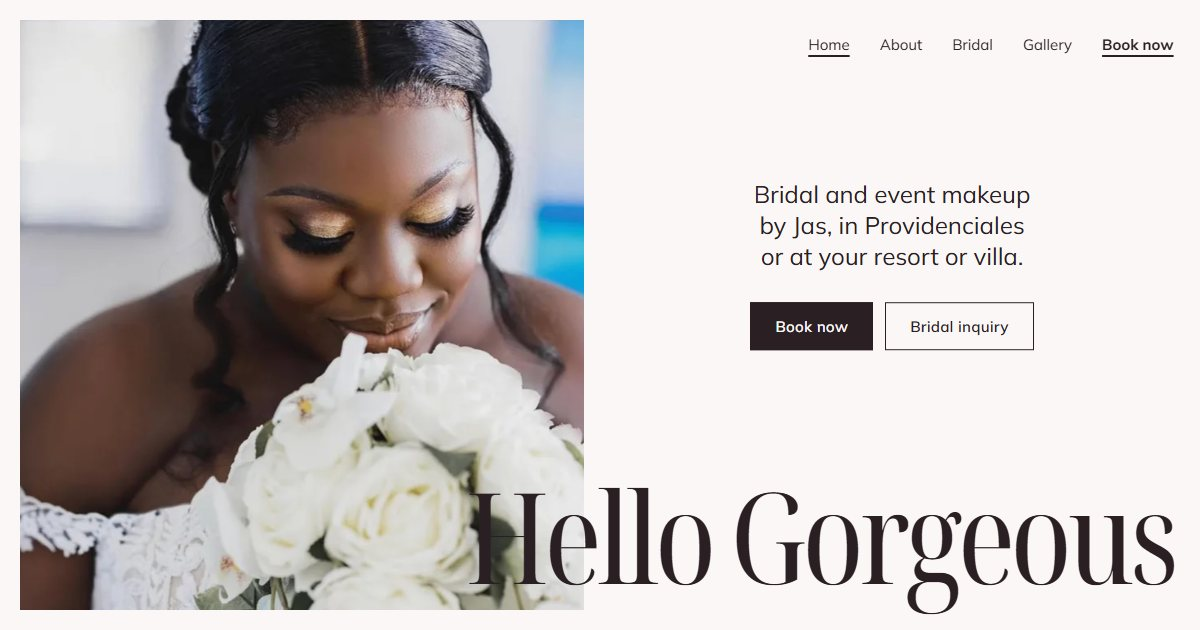
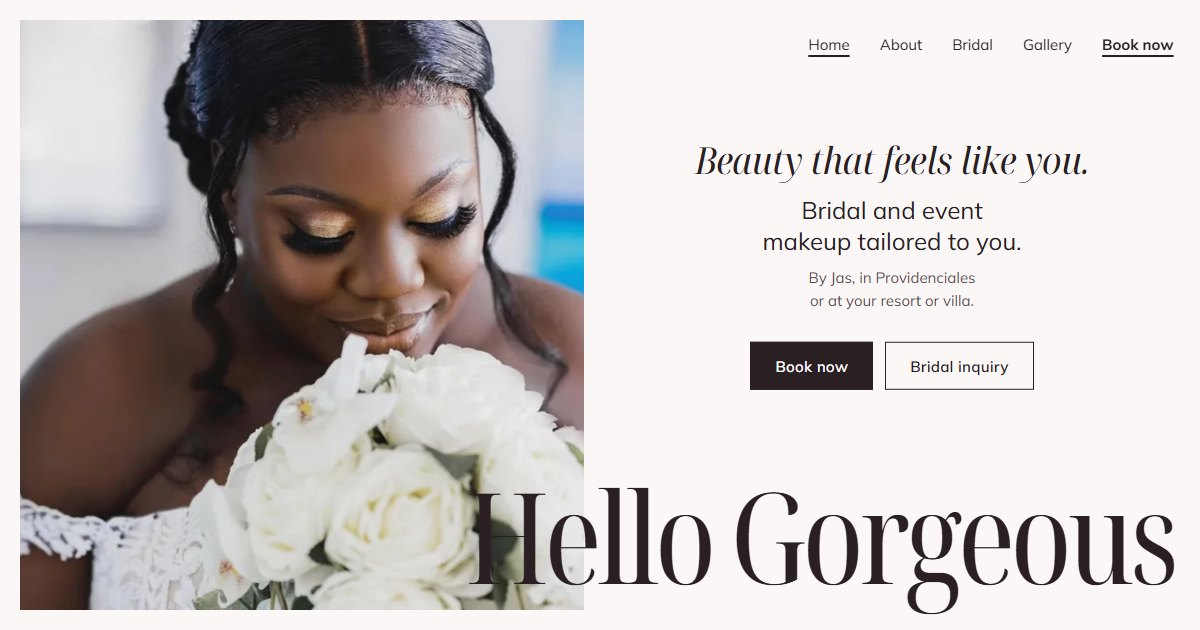
Sample 40: her wording on Home, her four brides on Bridal, the gallery and the strip

diff --git a/40-hello-gorgeous/index.html b/40-hello-gorgeous/index.html
@@ -45,7 +45,7 @@
     ]
   }
   </script>
-  <link rel="stylesheet" href="style.css?v=8">
+  <link rel="stylesheet" href="style.css?v=9">
   <script>document.documentElement.classList.add("js");setTimeout(function(){document.documentElement.classList.add("anim-off")},2500);</script>
 </head>
 <body>
@@ -70,7 +70,9 @@
         <img class="hero-photo" src="img/cover-700.webp" srcset="img/cover-700.webp 700w, img/cover-1200.webp 1200w" sizes="(min-width: 900px) 47vw, 100vw" width="1200" height="1246" alt="A bride with gold shimmer eyes and full lashes, smiling over a bouquet of white roses" fetchpriority="high">
       </figure>
       <div class="hero-copy">
-        <p class="hero-lead">Bridal and event makeup by Jas, in Providenciales or at your resort or villa.</p>
+        <p class="hero-tag">Beauty that feels like you.</p>
+        <p class="hero-lead">Bridal and event makeup tailored to you.</p>
+        <p class="hero-where">By Jas, in Providenciales or at your resort or villa.</p>
         <p class="hero-actions">
           <a class="btn btn-solid" href="book.html">Book now</a>
           <a class="btn btn-line" href="bridal.html">Bridal inquiry</a>
@@ -93,7 +95,7 @@
 
     <section class="looks" id="looks" data-look="soft" aria-labelledby="looks-title">
       <div class="looks-copy">
-        <h2 class="h2" id="looks-title" data-in>Find Your Look</h2>
+        <h2 class="h2" id="looks-title" data-in>Makeup for Every Moment</h2>
         <p class="looks-lede" data-in>Two looks, from soft to bold. Turn the mirror to see each one, then book the one you love. Each look takes about an hour.</p>
         <div class="look-info" aria-live="polite" data-in>
           <div class="look-card" data-for="soft">
@@ -176,10 +178,14 @@
     </section>
 
     <section class="work" id="work" aria-labelledby="work-title">
-      <h2 class="work-title" id="work-title" data-in>Her Work, <span class="tnum">16</span> Looks</h2>
-      <div class="strip" tabindex="0" role="region" aria-label="Her work: 16 photos. Scroll sideways to see them all.">
+      <h2 class="work-title" id="work-title" data-in>Real Clients. Real Beauty.</h2>
+      <div class="strip" tabindex="0" role="region" aria-label="Real clients, real beauty: 20 photos. Scroll sideways to see them all.">
         <ul class="frames">
           <li class="frame"><img src="img/cover-700.webp" width="700" height="727" alt="A bride with gold shimmer eyes and full lashes, smiling over a bouquet of white roses" loading="lazy" decoding="async" style="--pos: 50% 30%"></li>
+          <li class="frame"><img src="img/bride-tiara-portrait-700.webp" width="700" height="934" alt="A bride in a crystal tiara holding a gold bouquet among the palms, with a berry lip and glowing skin" loading="lazy" decoding="async" style="--pos: 50% 26%"></li>
+          <li class="frame"><img src="img/bride-earrings-700.webp" width="700" height="1242" alt="A blonde bride in a lace robe putting on her earrings, with bronzed glam and a nude-pink lip" loading="lazy" decoding="async" style="--pos: 50% 30%"></li>
+          <li class="frame"><img src="img/bride-roses-700.webp" width="700" height="933" alt="A smiling bride with a curled updo and veil, holding white roses, with shimmer eyes and a rosy lip" loading="lazy" decoding="async" style="--pos: 50% 20%"></li>
+          <li class="frame"><img src="img/bride-lace-700.webp" width="700" height="933" alt="A bride in a lace halter gown with soft bronze eyes, rosy cheeks and a glossy rose lip" loading="lazy" decoding="async" style="--pos: 50% 24%"></li>
           <li class="frame frame-blush"><img src="img/bride-cutout-640.webp" width="640" height="1011" alt="Bride in a beaded gown with soft bridal glam" loading="lazy" decoding="async" style="--pos: 50% 8%"></li>
           <li class="frame"><img src="img/pampas-closeup-700.webp" width="700" height="838" alt="Close-up of soft glam with glowing skin and a nude gloss" loading="lazy" decoding="async"></li>
           <li class="frame"><img src="img/black-chin-700.webp" width="700" height="928" alt="Defined eyes with winged liner and a glossy nude lip" loading="lazy" decoding="async" style="--pos: 50% 20%"></li>

diff --git a/40-hello-gorgeous/gallery.html b/40-hello-gorgeous/gallery.html
@@ -17,7 +17,7 @@
   <link rel="preconnect" href="https://fonts.googleapis.com">
   <link rel="preconnect" href="https://fonts.gstatic.com" crossorigin>
   <link href="https://fonts.googleapis.com/css2?family=Mulish:wght@400;600;700&amp;family=Noto+Serif+Display:ital,wdth,wght@0,62.5..100,300..600;1,62.5..100,300..600&amp;display=swap" rel="stylesheet">
-  <link rel="stylesheet" href="style.css?v=8">
+  <link rel="stylesheet" href="style.css?v=9">
   <script>document.documentElement.classList.add("js");setTimeout(function(){document.documentElement.classList.add("anim-off")},2500);</script>
 </head>
 <body>
@@ -39,12 +39,16 @@
   <main id="main">
     <header class="page-head">
       <h1 class="page-title">Gallery</h1>
-      <p class="page-lead">Bridal, editorial and glam makeup by Jas. <span class="tnum">16</span> looks.</p>
+      <p class="page-lead">Bridal, editorial and glam makeup by Jas. <span class="tnum">20</span> looks.</p>
     </header>
 
     <section class="gallery" aria-label="Her work">
       <ul class="g-grid">
         <li><a class="g-item" href="img/cover-1200.webp" data-full="img/cover-1200.webp"><img src="img/cover-700.webp" width="700" height="727" alt="A bride with gold shimmer eyes and full lashes, smiling over a bouquet of white roses" loading="lazy" decoding="async"></a></li>
+        <li><a class="g-item" href="img/bride-tiara-1200.webp" data-full="img/bride-tiara-1200.webp"><img src="img/bride-tiara-700.webp" width="700" height="467" alt="A bride in a crystal tiara holding a gold bouquet among the palms, with a berry lip and glowing skin" loading="lazy" decoding="async"></a></li>
+        <li><a class="g-item" href="img/bride-earrings-1200.webp" data-full="img/bride-earrings-1200.webp"><img src="img/bride-earrings-700.webp" width="700" height="1242" alt="A blonde bride in a lace robe putting on her earrings, with bronzed glam and a nude-pink lip" loading="lazy" decoding="async"></a></li>
+        <li><a class="g-item" href="img/bride-roses-1200.webp" data-full="img/bride-roses-1200.webp"><img src="img/bride-roses-700.webp" width="700" height="933" alt="A smiling bride with a curled updo and veil, holding white roses, with shimmer eyes and a rosy lip" loading="lazy" decoding="async"></a></li>
+        <li><a class="g-item" href="img/bride-lace-1200.webp" data-full="img/bride-lace-1200.webp"><img src="img/bride-lace-700.webp" width="700" height="933" alt="A bride in a lace halter gown with soft bronze eyes, rosy cheeks and a glossy rose lip" loading="lazy" decoding="async"></a></li>
         <li><a class="g-item" href="img/bride-cutout-1100.webp" data-full="img/bride-cutout-1100.webp" data-bg="blush"><img src="img/bride-cutout-640.webp" width="640" height="1011" alt="Bride in a beaded gown with soft bridal glam" loading="lazy" decoding="async"></a></li>
         <li><a class="g-item" href="img/pampas-closeup-1200.webp" data-full="img/pampas-closeup-1200.webp"><img src="img/pampas-closeup-700.webp" width="700" height="838" alt="Close-up of soft glam with glowing skin and a nude gloss" loading="lazy" decoding="async"></a></li>
         <li><a class="g-item" href="img/black-chin-1200.webp" data-full="img/black-chin-1200.webp"><img src="img/black-chin-700.webp" width="700" height="928" alt="Defined eyes with winged liner and a glossy nude lip" loading="lazy" decoding="async"></a></li>

diff --git a/40-hello-gorgeous/bridal.html b/40-hello-gorgeous/bridal.html
@@ -17,7 +17,7 @@
   <link rel="preconnect" href="https://fonts.googleapis.com">
   <link rel="preconnect" href="https://fonts.gstatic.com" crossorigin>
   <link href="https://fonts.googleapis.com/css2?family=Mulish:wght@400;600;700&amp;family=Noto+Serif+Display:ital,wdth,wght@0,62.5..100,300..600;1,62.5..100,300..600&amp;display=swap" rel="stylesheet">
-  <link rel="stylesheet" href="style.css?v=8">
+  <link rel="stylesheet" href="style.css?v=9">
   <script>document.documentElement.classList.add("js");setTimeout(function(){document.documentElement.classList.add("anim-off")},2500);</script>
 </head>
 <body>
@@ -42,12 +42,12 @@
       <p class="page-lead">Wedding makeup by Jas, at your resort or villa in Turks and Caicos.</p>
     </header>
 
-    <section class="book-photos" aria-label="Brides and soft glam by Jas">
+    <section class="book-photos" aria-label="Brides by Jas">
       <ul class="bp-row">
-        <li data-in><img src="img/cover-700.webp" width="700" height="727" alt="A bride with gold shimmer eyes and full lashes over white roses" loading="lazy" decoding="async"></li>
-        <li class="bp-blush" data-in><img src="img/bride-cutout-640.webp" width="640" height="1011" alt="Bride in a beaded gown with soft bridal glam" loading="lazy" decoding="async" style="--pos: 50% 8%"></li>
-        <li data-in><img src="img/pampas-closeup-700.webp" width="700" height="838" alt="Soft glam with glowing skin and a nude gloss" loading="lazy" decoding="async"></li>
-        <li data-in><img src="img/pampas-full-700.webp" width="700" height="1090" alt="Soft luminous makeup with a cream corset and pampas grass" loading="lazy" decoding="async" style="--pos: 50% 22%"></li>
+        <li data-in><img src="img/bride-tiara-portrait-700.webp" width="700" height="934" alt="A bride in a crystal tiara holding a gold bouquet among the palms, with a berry lip and glowing skin" loading="lazy" decoding="async"></li>
+        <li data-in><img src="img/bride-earrings-700.webp" width="700" height="1242" alt="A blonde bride in a lace robe putting on her earrings, with bronzed glam and a nude-pink lip" loading="lazy" decoding="async" style="--pos: 50% 30%"></li>
+        <li data-in><img src="img/bride-roses-700.webp" width="700" height="933" alt="A smiling bride with a curled updo and veil, holding white roses, with shimmer eyes and a rosy lip" loading="lazy" decoding="async"></li>
+        <li data-in><img src="img/bride-lace-700.webp" width="700" height="933" alt="A bride in a lace halter gown with soft bronze eyes, rosy cheeks and a glossy rose lip" loading="lazy" decoding="async"></li>
       </ul>
     </section>
 

diff --git a/40-hello-gorgeous/style.css b/40-hello-gorgeous/style.css
@@ -259,7 +259,7 @@ ul { padding: 0; list-style: none; }
 /* Her work: small frames, wide space */
 .work { position: relative; height: 100svh; min-height: 560px; display: flex; flex-direction: column; justify-content: center; }
 .work-title {
-  position: relative; z-index: 2; margin: 0 0 -42px var(--m);
+  position: relative; z-index: 2; margin: 0 0 -16px var(--m);
   font-family: var(--display); font-weight: 400; font-style: italic;
   font-size: var(--step-lead); line-height: 1.2;
 }
@@ -598,3 +598,15 @@ main { position: relative; z-index: 1; background: var(--bg); }
   .classes { grid-template-columns: minmax(0, 1fr); gap: 40px; margin-top: 56px; }
 }
 .bp-blush { background: var(--blush); }
+
+/* Hero words from Jas: her line first, then what she does and where */
+.hero-tag {
+  font-family: var(--display); font-style: italic; font-weight: 400;
+  font-stretch: 85%; font-variation-settings: "wdth" 85;
+  font-size: var(--step-head); line-height: 1.05; letter-spacing: -0.01em; text-wrap: balance;
+  margin-bottom: 16px;
+}
+.hero-where { margin-top: 10px; max-width: 34ch; font-size: var(--step-small); color: var(--muted-blush); text-wrap: balance; }
+@media (max-width: 859px) {
+  .hero-tag { margin-bottom: 10px; }
+}

diff --git a/40-hello-gorgeous/book.html b/40-hello-gorgeous/book.html
@@ -17,7 +17,7 @@
   <link rel="preconnect" href="https://fonts.googleapis.com">
   <link rel="preconnect" href="https://fonts.gstatic.com" crossorigin>
   <link href="https://fonts.googleapis.com/css2?family=Mulish:wght@400;600;700&amp;family=Noto+Serif+Display:ital,wdth,wght@0,62.5..100,300..600;1,62.5..100,300..600&amp;display=swap" rel="stylesheet">
-  <link rel="stylesheet" href="style.css?v=8">
+  <link rel="stylesheet" href="style.css?v=9">
   <script>document.documentElement.classList.add("js");setTimeout(function(){document.documentElement.classList.add("anim-off")},2500);</script>
 </head>
 <body>
